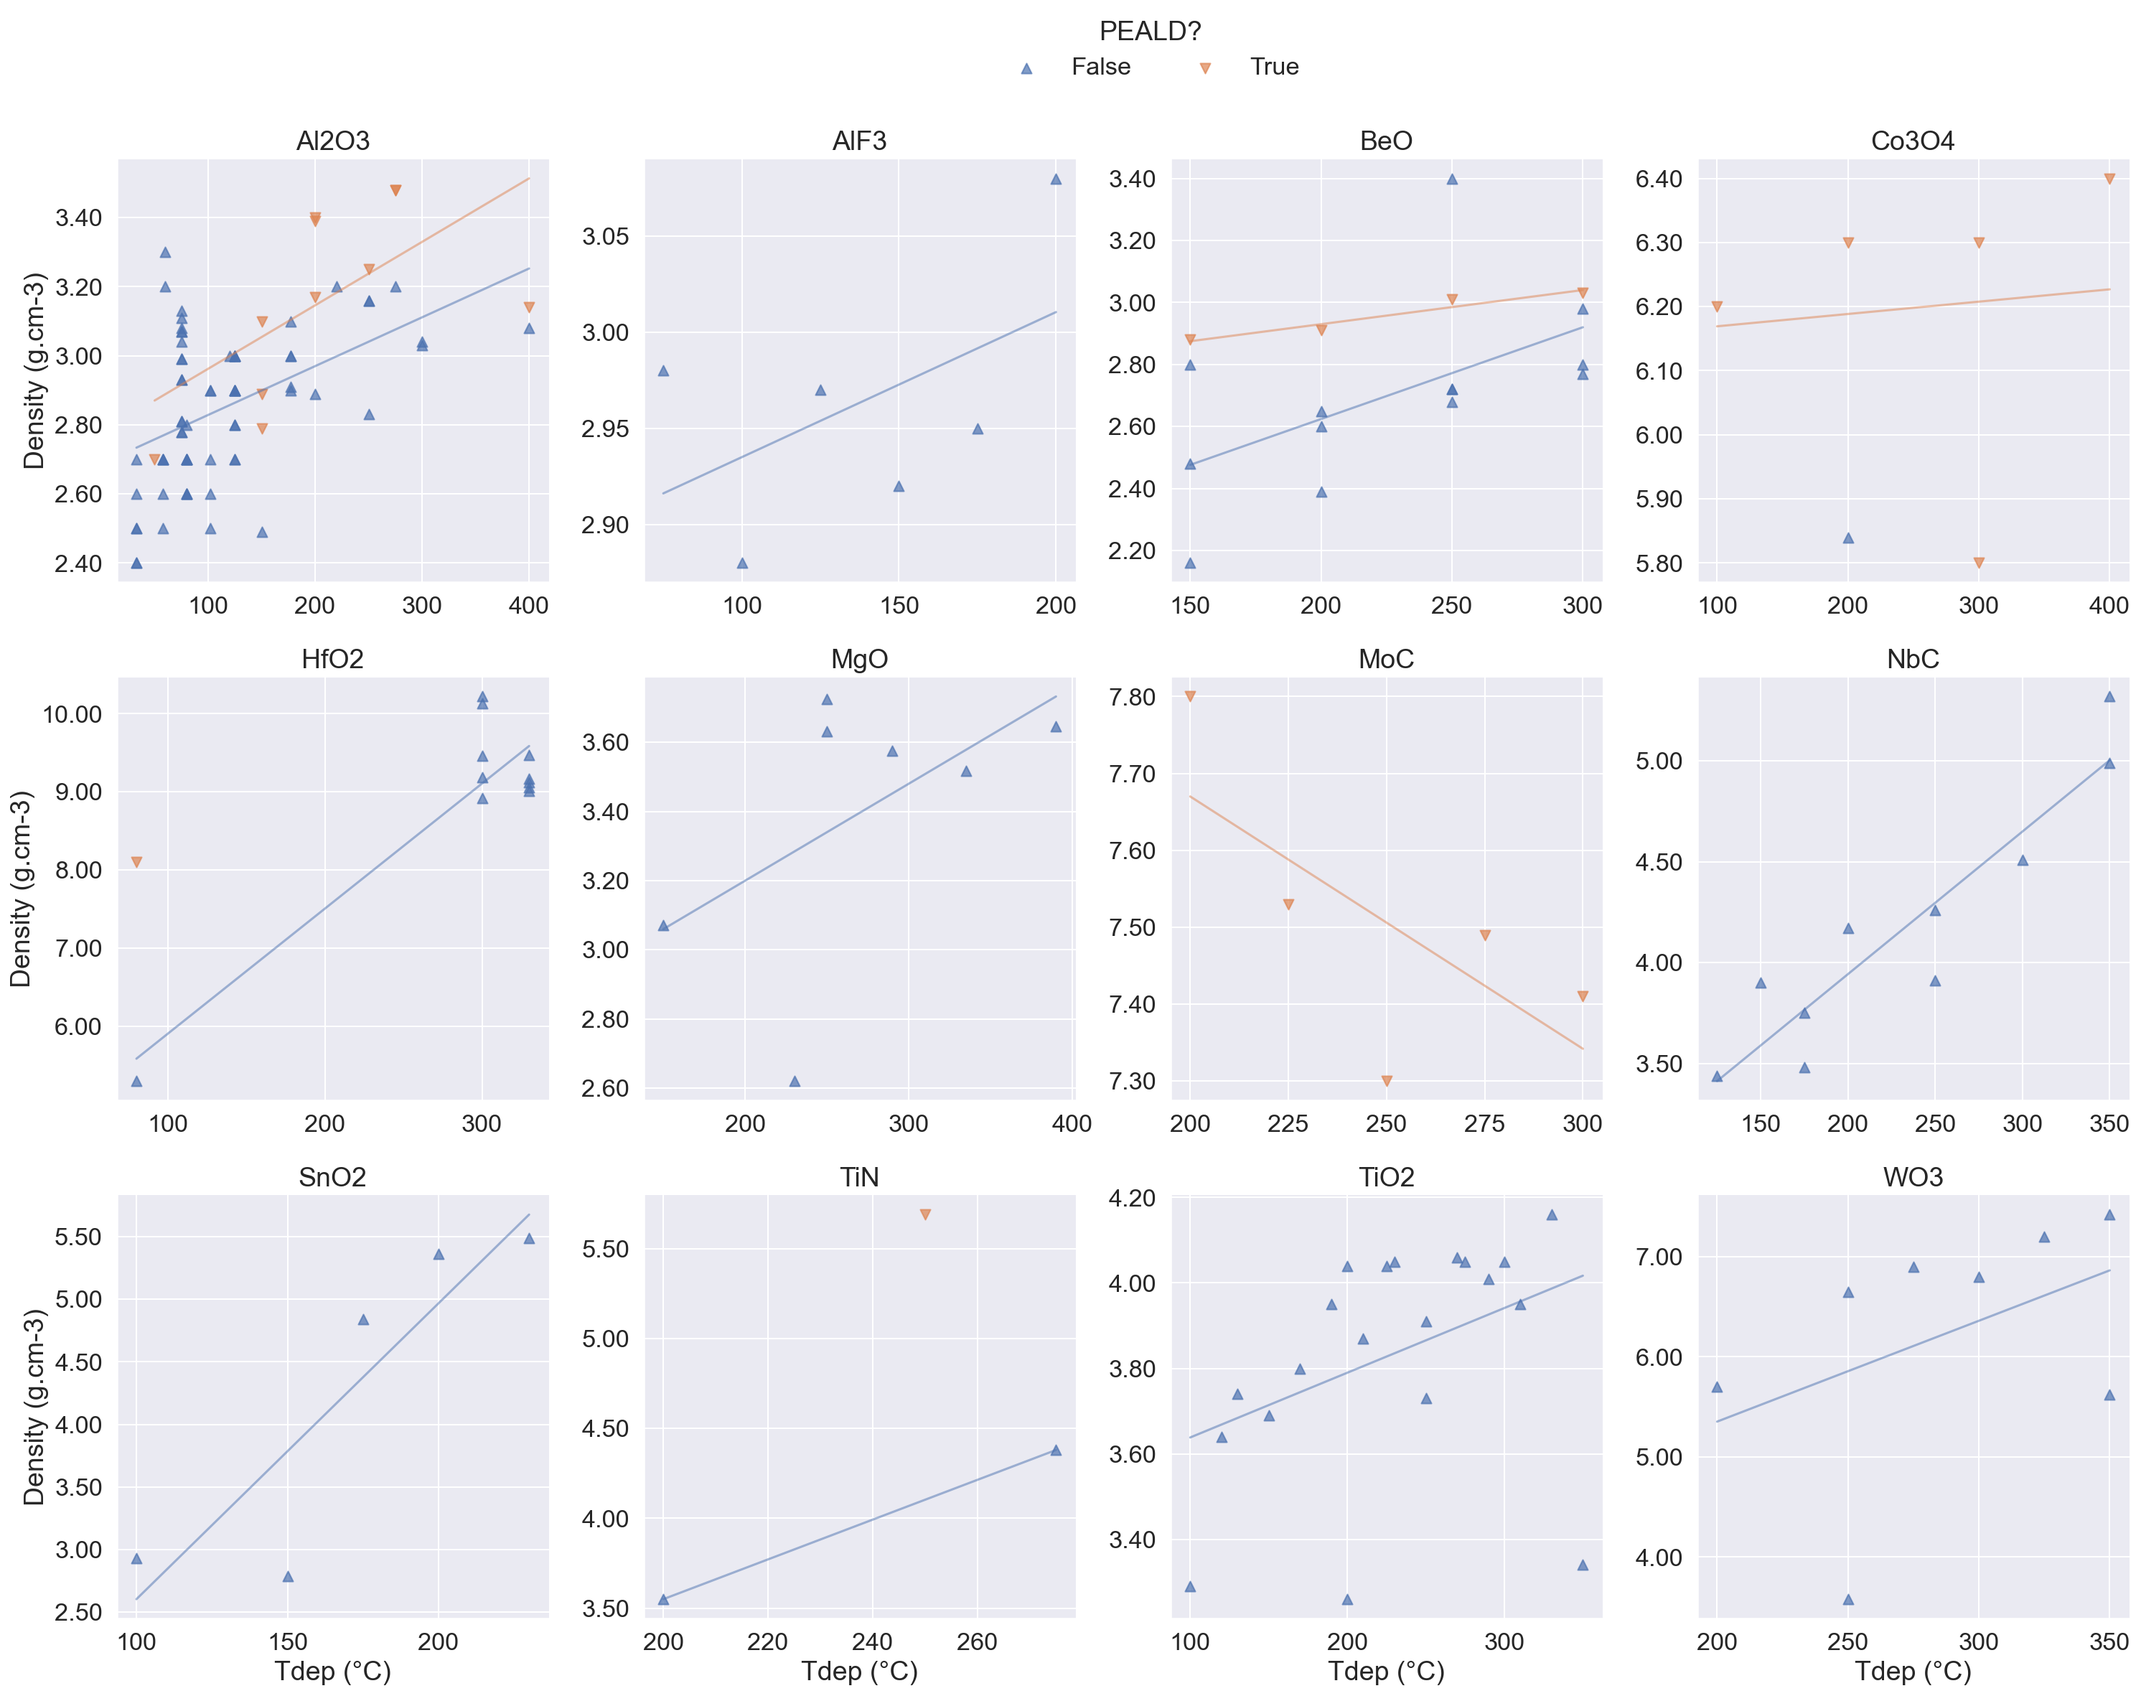
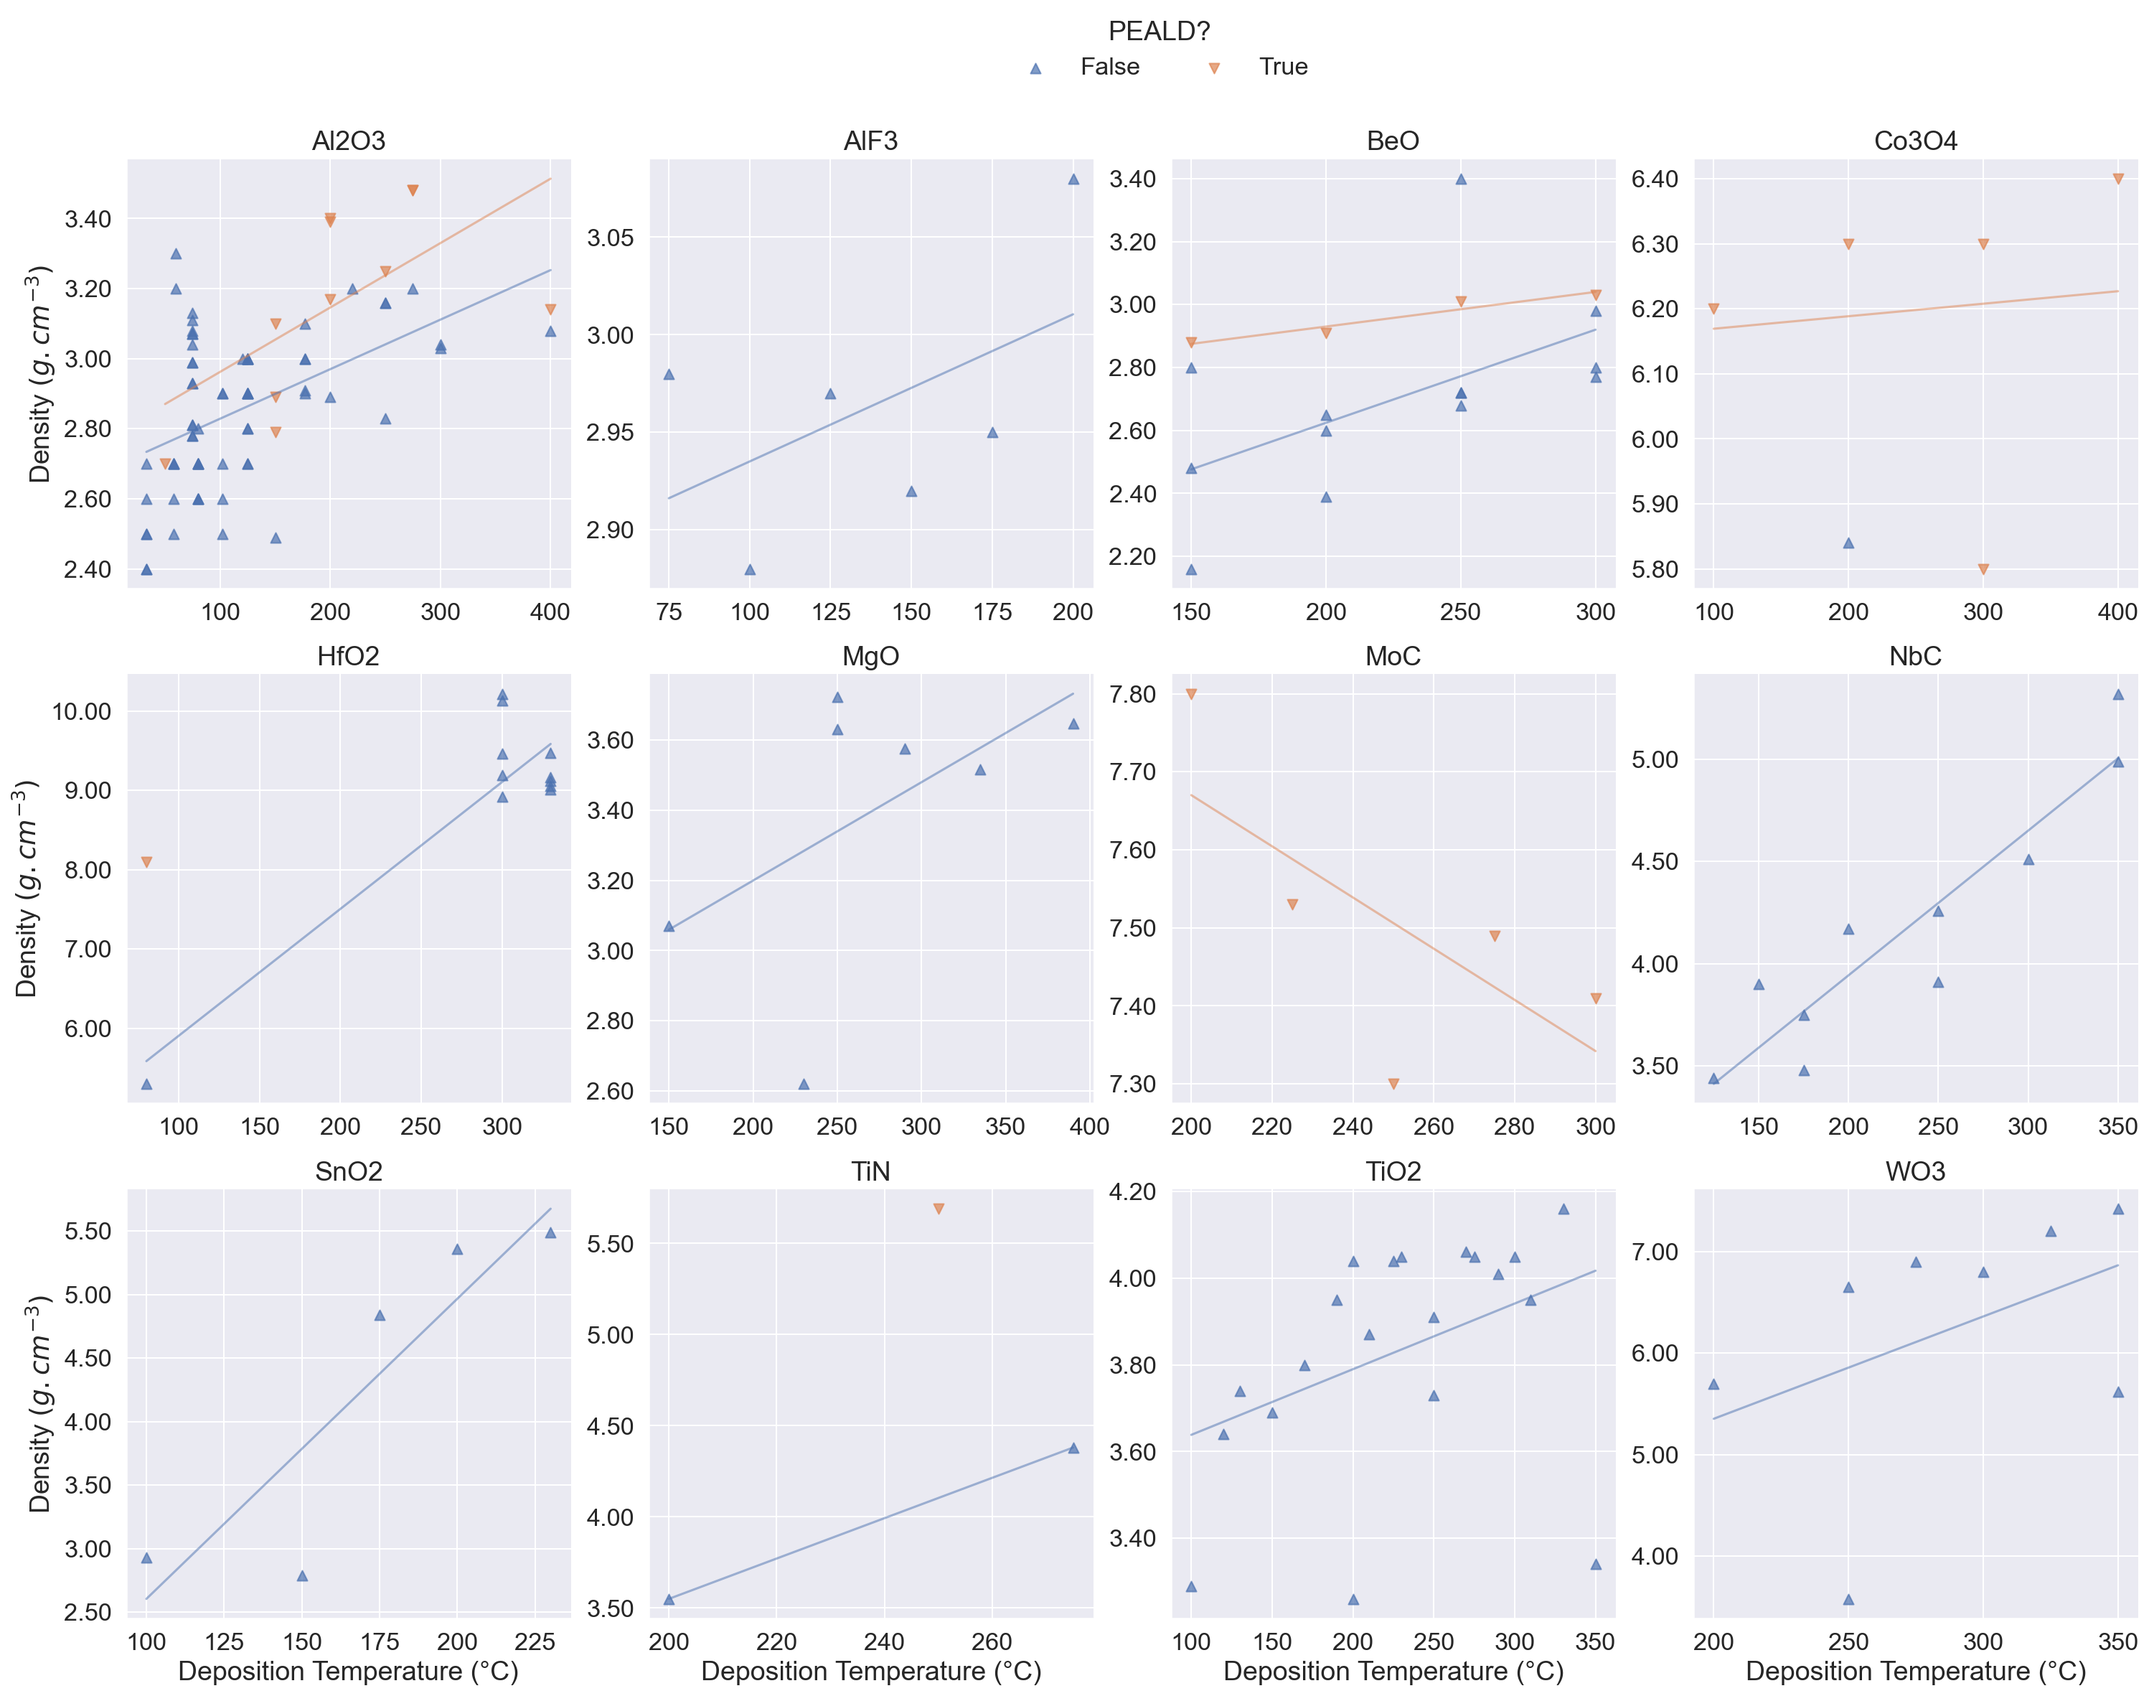
density vs Tdep

diff --git a/scripts/plot_ald.py b/scripts/plot_ald.py
@@ -137,7 +137,7 @@ def get_fit_plot(df, x, y, z):
     # sns.regplot(data=df, x=X, y=Y, ci=None) # scatter plot with linear regression
     
     
-    sns.set(font_scale = 1.50)
+    sns.set(font_scale = 1.50) # BUG: breaks the other graph font size
 
     # scatter plot with linear regression for each category Z 
     fig = sns.lmplot(data=df, x=x, y=y, hue="PEALD?", markers=["^", "v"], col=z, col_wrap=4, ci=None, 
@@ -145,12 +145,6 @@ def get_fit_plot(df, x, y, z):
         scatter_kws={"s": 45, "alpha":0.7}, 
         line_kws={"lw":1.5, "alpha":0.5})
 
-    fig.set_titles(col_template="{col_name}")
-
-    # TODO: fix axis sigfigs
-
-    for ax in fig.axes.flat:
-        ax.yaxis.set_major_formatter(FuncFormatter(lambda y, p: f'{y:.2f}'))
     
     # splot2 = sns.lmplot(data=df_plot, x=X, y=Y, hue=Z, ci=None, fit_reg=False, scatter_kws={"s": 10, "alpha":0.4}) # scatter plot with linear regression for each category Z 
     # splot2 = sns.lineplot(data=df_plot, x=X, y=Y, hue=Z, marker="o")
@@ -162,13 +156,22 @@ def get_fit_plot(df, x, y, z):
     # # sfig2 = splot2.get_figure()
 
     # SET PLOT TITLE
-    # plt.title("Density vs Temperature ALD Thin Films")
+    #  set title of each subplot to col value
+    fig.set_titles(col_template="{col_name}")
+
+    # fix y axis sigfigs
+    for ax in fig.axes.flat:
+        ax.yaxis.set_major_formatter(FuncFormatter(lambda y, p: f'{y:.2f}'))
 
     # SET AXIS LABELS
-    # plt.xlabel("Deposition Temperature (°C)")
-    # plt.ylabel("Density $(g.cm^{-3})$")
+    fig.set_axis_labels( "Deposition Temperature (°C)", "Density $(g.cm^{-3})$" )
 
+    # CUSTOMIZE LEGEND
     sns.move_legend(fig, "lower center", bbox_to_anchor=(0.5, 1), ncol=2, frameon=False)
+
+    # customize plot spacing and padding
+    plt.subplots_adjust(wspace = 0.175, hspace=0.2)
+    # plt.tight_layout()
     return fig
 
 fig1 = get_fit_plot(df_plot, X, Y, Z)
